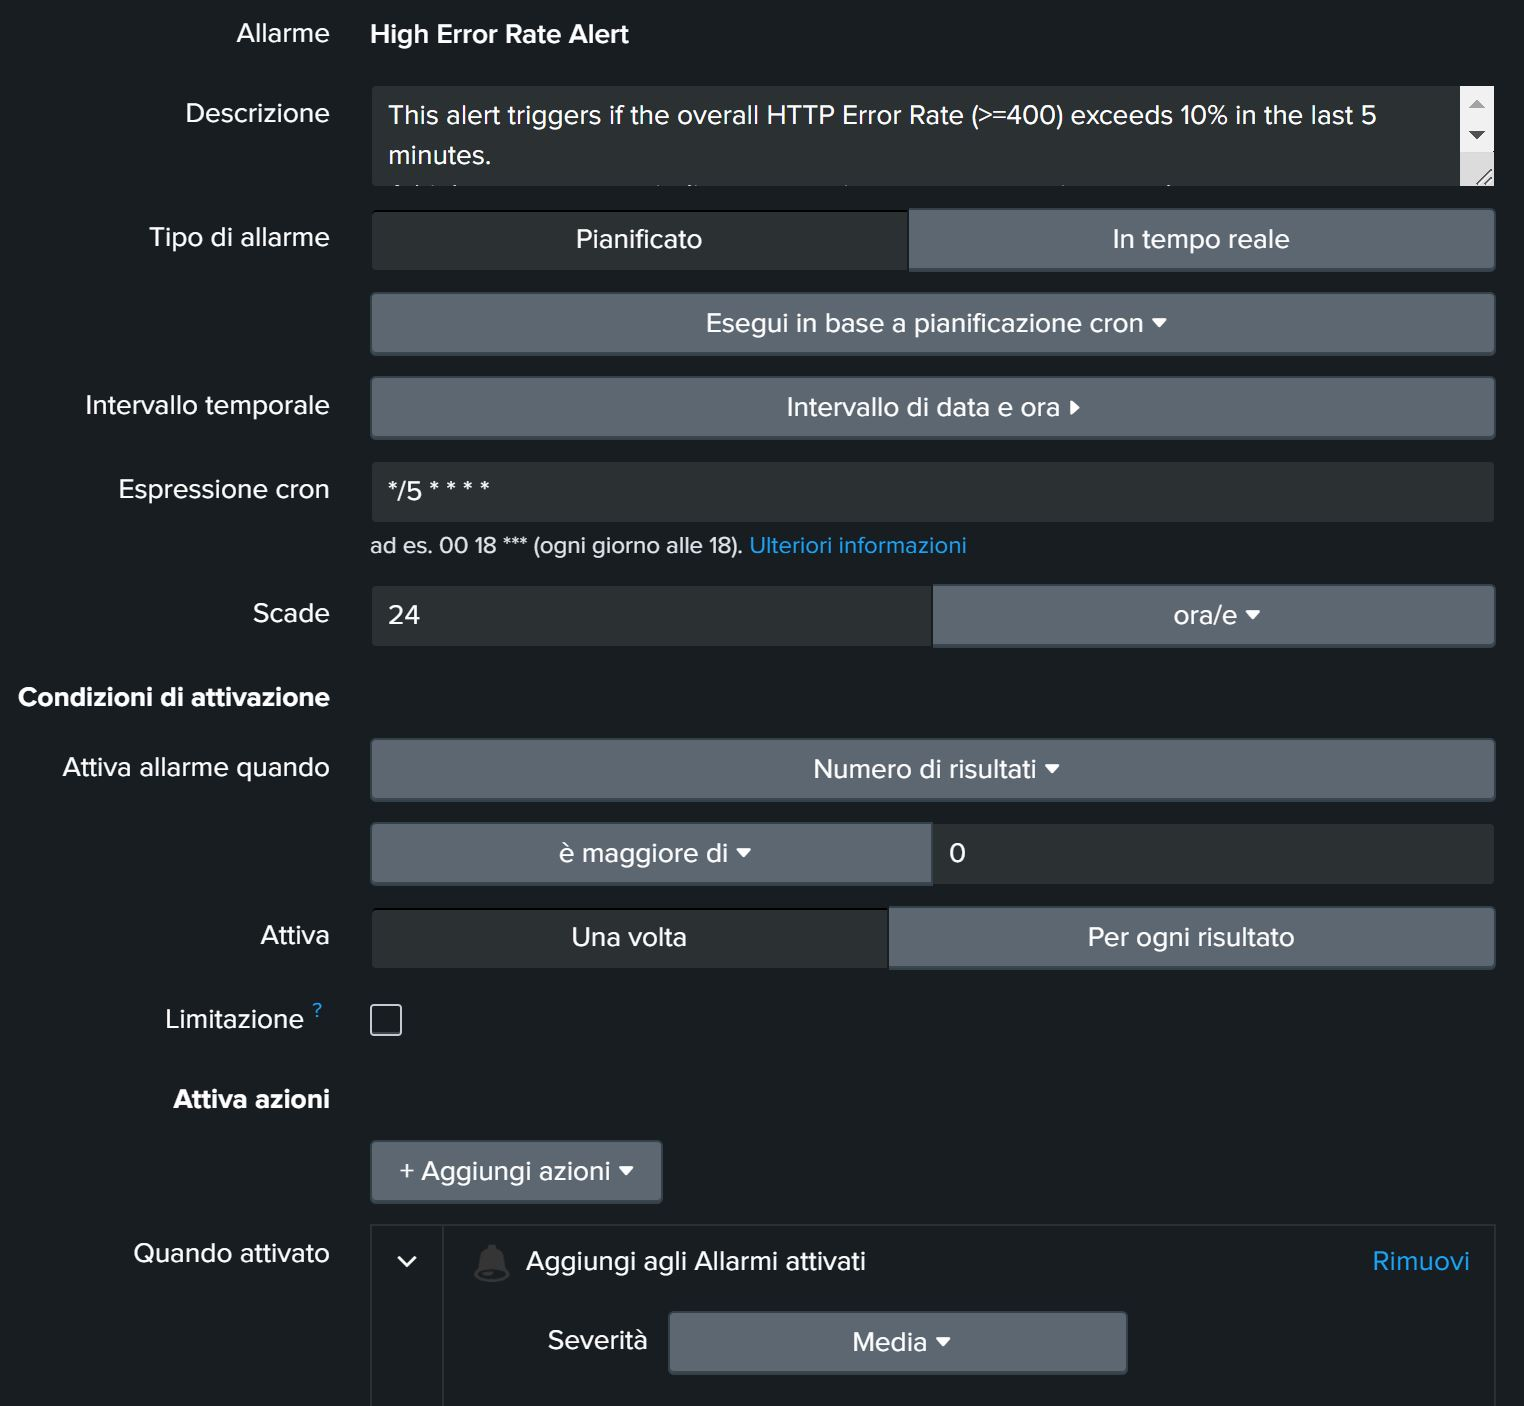
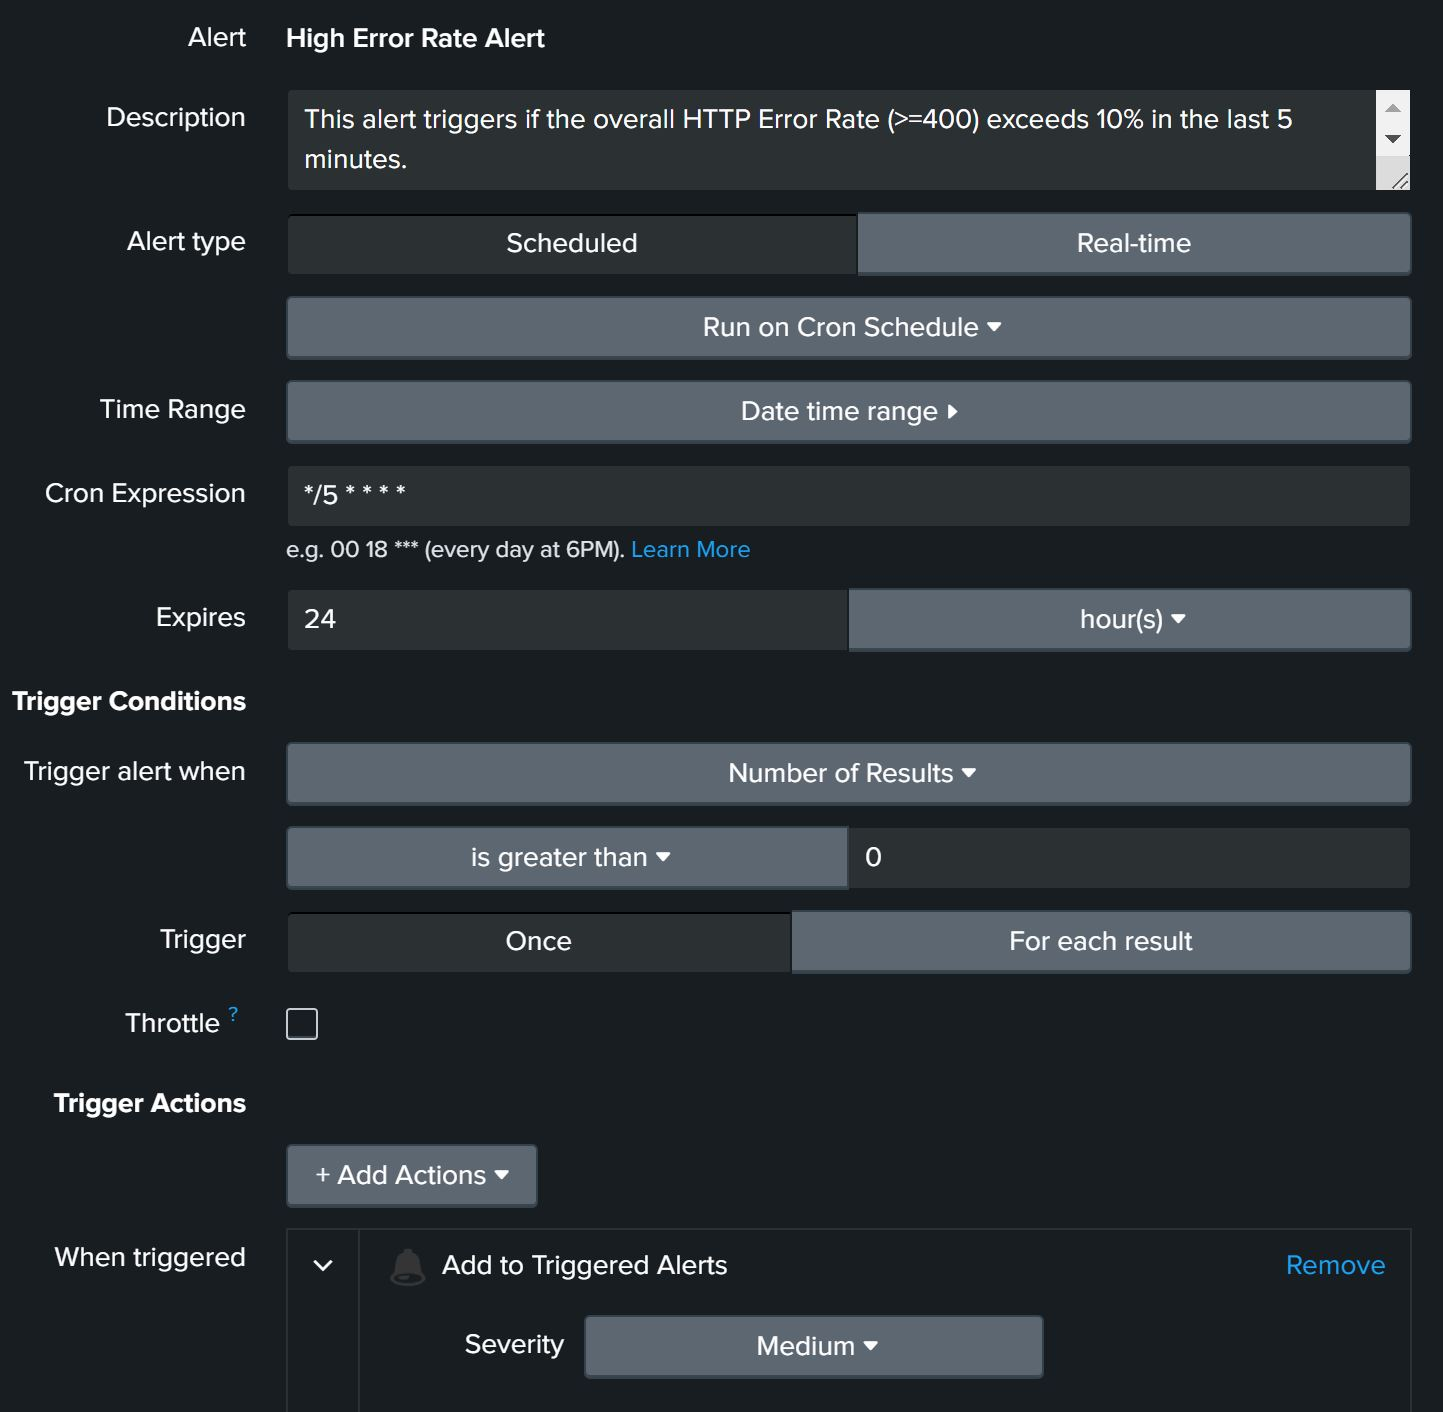
Update screenshots to English UI + fix README layout

diff --git a/README.md b/README.md
@@ -3,8 +3,9 @@
 ## Introduction
 This project is a SOC (Security Operations Center) simulation,
 designed to demonstrate skills in SIEM/Splunk and cybersecurity.
-It generates logs with with fake IPs and a malicious IP to simulate scanning and
+It generates logs with fake IPs and a malicious IP to simulate scanning and
 brute force. 
+
 **Purpose**
 - Show how to generate realistic logs for training
 - Build a Splunk dashboard with multiple panels
@@ -17,9 +18,9 @@ It includes:
 
 ## Table of Contents
 - [Introduction](#introduction)
-- [Features](#features#)
+- [Features](#features)
 - [Requirements](#requirements)
-- [How to Use](how-to-use)
+- [How to Use](#how-to-use)
    - [Sample searches for dashboard panels](#sample-searches-for-dashboard-panels)
 - [Screenshots](#screenshots)
 - [Notes](#notes)
@@ -83,69 +84,93 @@ This creates the following logs:
 - Save searches as panels. Examples include HTTP Status, HTTP Activity Over Time, and so on.
 ### Sample searches for dashboard panels
 - **HTTP Status Code Distribution**
+```spl 
 index=<your_index> sourcetype=apache_access
 | stats count AS Requests by status
 | sort -Requests
+``` 
 - **HTTP Activity Over Time**
-index=soc_logs sourcetype=apache_access
+```spl 
+index=<your_index> sourcetype=apache_access
 | timechart count by status
+```
 - **Top Requesting IPs**
+```spl
 index=<your_index> sourcetype=apache_access
 | stats count AS Hits by clientip
 | sort -Hits
 | head 4
+```
 - **Error Severity Over Time**
+```spl
 index=<your_index> sourcetype=apache_error
 | timechart count AS Events by severity
+```
 - **Suspected HTTP Scanning (404/500)**
+```spl
 index=<your_index> sourcetype=apache_access (status=404 OR status=500)
 | stats count AS ErrorHits by clientip
 | sort -ErrorHits
 | head 10
+```
 - **Windows Event ID**
+```spl 
 index=<your_index> sourcetype=win_event_log
 | stats count AS "Events" by ID
 | sort -Events
+```
 - **Firewall Activity**
+```spl
 index=<your_index> sourcetype=firewall_log
 | stats count AS "Count" by act
 | sort -Count
+```
 - **Windows Bruteforce Attempts (4625)**
+```spl
 index=<your_index> sourcetype=win_event_log ID=4625
 | stats count AS FailCount by clientip
 | sort -FailCount
 | head 10
+```
 - **Geo Distribution of Traffic**
+```spl
 index=<your_index> (sourcetype=apache_access OR sourcetype=apache_error OR sourcetype=firewall_log OR sourcetype=win_event_log)
 | iplocation clientip
 | geostats latfield=lat longfield=lon count
+```
 
 ### 5) Create Alerts
-- From “Search & Reporting”, save researches as “Scheduled Alert” (see query), for 
+- From “Search & Reporting”, save researches as “Scheduled Alert” (see queries), for 
 scenarios like brute force attempts, 404 errors, or a specific INCIDENT_IP generating
 too many errors.
 - Advised thresholds: > 10 404 errors, > 5 login fail...
-
-**Sample queries**
-
+### Sample queries for alerts
 - **HTTP Scanning (404 Overload)**
+```spl
 index=<your_index> sourcetype=apache_access (status=404 OR status=500)
 | stats count AS ErrorHits by clientip
 | where ErrorHits > 10
+```
 - **High Error Rate**
+```spl
 index=<your_index> sourcetype=apache_access
 | eval isError=if(status>=400,1,0)
 | stats count(eval(isError=1)) AS Errors, count AS Total
 | eval ErrorRate=round((Errors*100)/Total,2)
 | where ErrorRate > 10
+```
 - **INCIDENT_IP Scanning**
+```spl
 index=<your_index> sourcetype=apache_access clientip=9.9.9.9 (status=404 OR status=500)
 | stats count AS ErrorHits
 | where ErrorHits > 20
+```
 - **Windows Brute Force**
+```spl
 index=<your_index> sourcetype=win_event_log ID=4625
 | stats count AS FailCount by clientip
 | where FailCount > 5
+```
 
 ## Screenshots
 The following screenshots show parts of the simulation:
